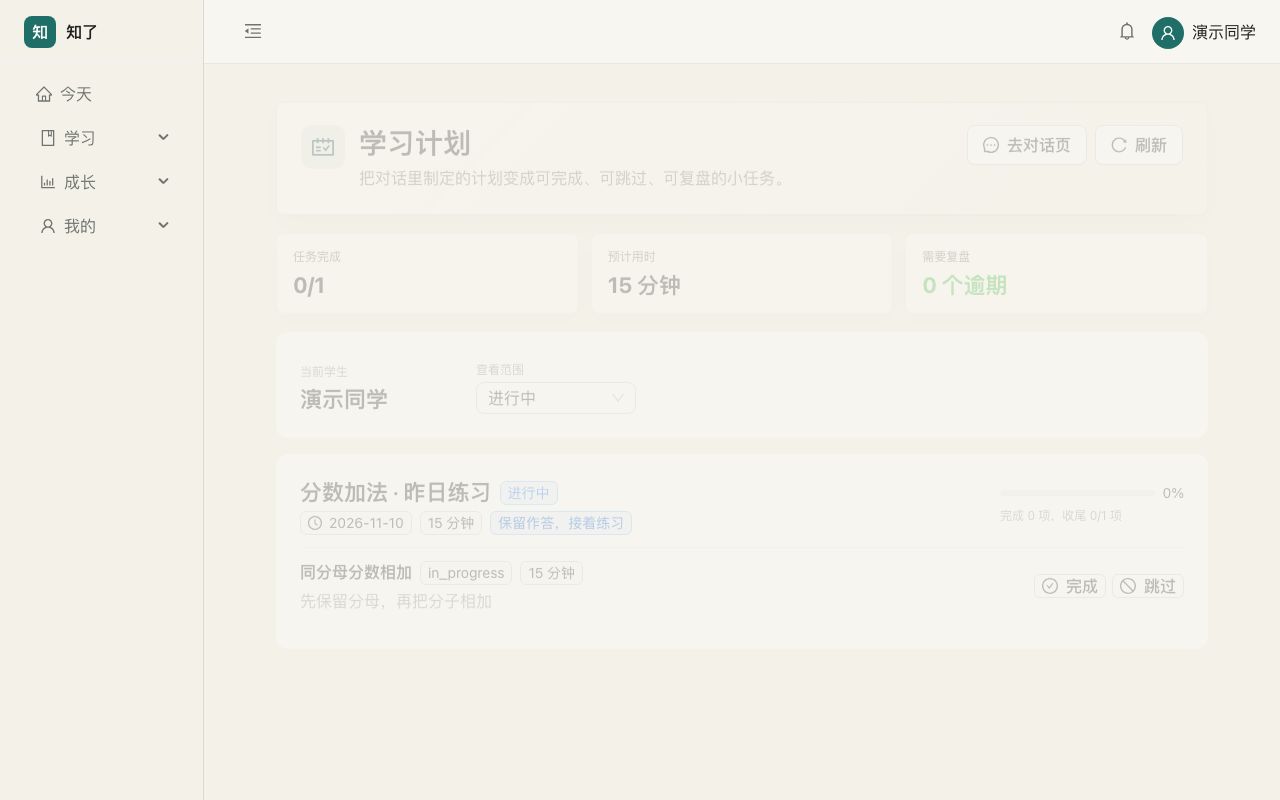
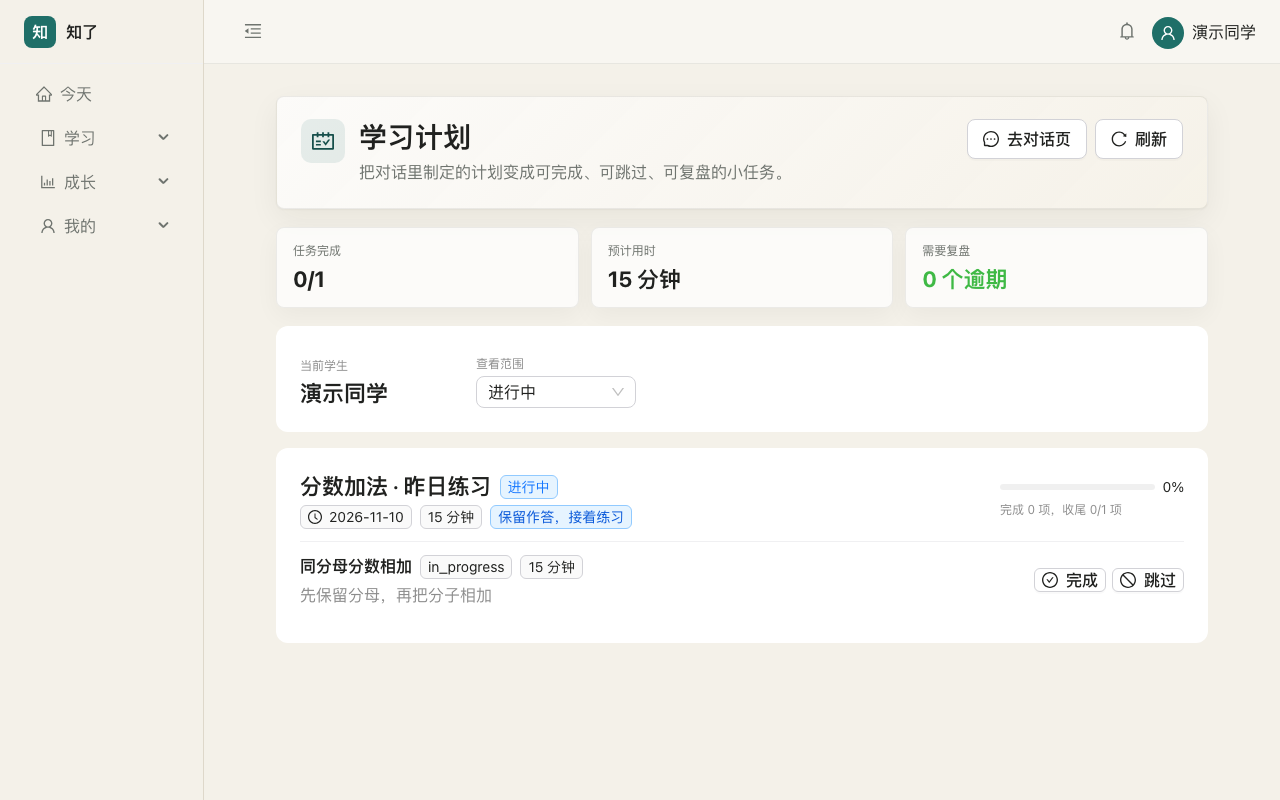
docs: recapture completed page animations and clarify plan caption

diff --git a/docs/images/SOURCES.md b/docs/images/SOURCES.md
@@ -5,9 +5,9 @@ Four screenshots from the real React → FastAPI → isolated MySQL 9.1 applicat
 | Image | Route | Viewport | SHA-256 |
 | --- | --- | --- | --- |
[7 lines of base64/hex data omitted]
 
 Reproduce in a new disposable local database named `readme_demo_test`: install dependencies and initialize with `PYTHONPATH=. .venv/bin/python scripts/init_db.py`, then run `PYTHONPATH=. .venv/bin/python ../docs/images/seed-demo.py` from studybuddy-backend. The script creates only fictional records and ignored browser states. Set the database host to 127.0.0.1, a dedicated local port/account, blank LLM_API_KEY, LLM_BASE_URL=http://127.0.0.1:9 and WECHAT_ENABLED=false. Start FastAPI on 18011 and Vite on 15173 with VITE_API_BASE=http://127.0.0.1:18011; load the routes above with the script's plan/task storage states in headless Chromium.
 

diff --git a/README.md b/README.md
@@ -59,7 +59,7 @@ npm run dev -- --host 127.0.0.1
 
 <!-- readme-illustrate:steps -->
 <table>
-<tr><td align="center"><a href="docs/images/plan-confirm.png"><img src="docs/images/plan-confirm.png" alt="查看两项计划草案并确认创建" width="250"></a><br>确认任务与预计时间。</td><td align="center"><a href="docs/images/task-session.png"><img src="docs/images/task-session.png" alt="任务会话中保留的作答与下一次练习起点" width="250"></a><br>保留作答与下一步练习。</td><td align="center"><a href="docs/images/resume.png"><img src="docs/images/resume.png" alt="计划列表中的继续学习与完成状态" width="250"></a><br>继续未完成任务。</td></tr>
+<tr><td align="center"><a href="docs/images/plan-confirm.png"><img src="docs/images/plan-confirm.png" alt="查看两项计划草案并确认创建" width="250"></a><br>确认任务与预计时间。</td><td align="center"><a href="docs/images/task-session.png"><img src="docs/images/task-session.png" alt="任务会话中保留的作答与下一次练习起点" width="250"></a><br>保留作答与下一步练习。</td><td align="center"><a href="docs/images/resume.png"><img src="docs/images/resume.png" alt="计划列表中的任务与完成状态" width="250"></a><br>查看未完成计划。</td></tr>
 </table>
 <!-- /readme-illustrate:steps -->
 ## 模型配置
